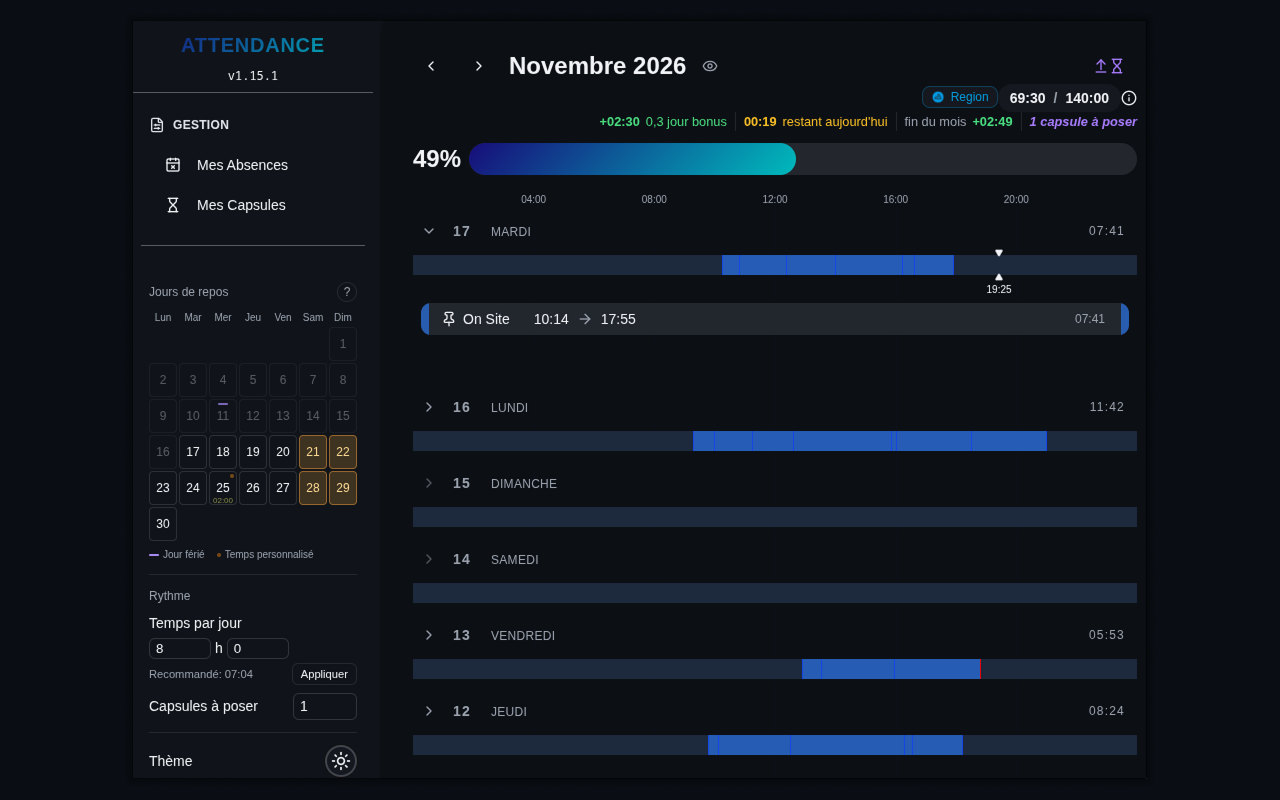
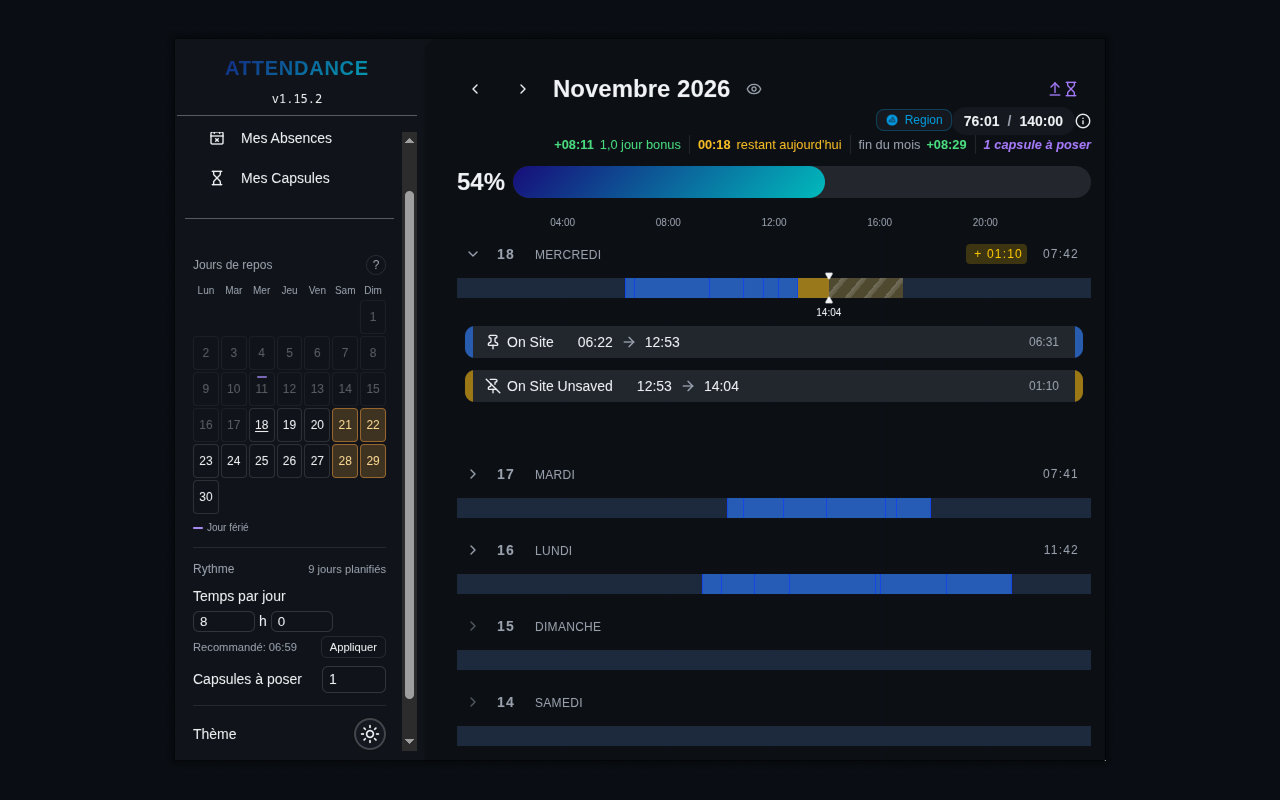
docs: update the screenshots and rename the light one

diff --git a/README.md b/README.md
@@ -14,7 +14,7 @@ Improves the [42 Lyon attendance page](https://attendance.42lyon.fr/me) with too
   </tr>
   <tr>
     <td>
-        <img src="resources/screenshot.white.png" width="1280" alt="The attendance page with the gap, the calendar of the days off and the settings, in the light theme">
+        <img src="resources/screenshot.light.png" width="1280" alt="The attendance page with the gap, the calendar of the days off and the settings, in the light theme">
     </td>
     <td>
         <img src="resources/screenshot.dark.png" width="1280" alt="The attendance page with the gap, the calendar of the days off and the settings, in the dark theme">
